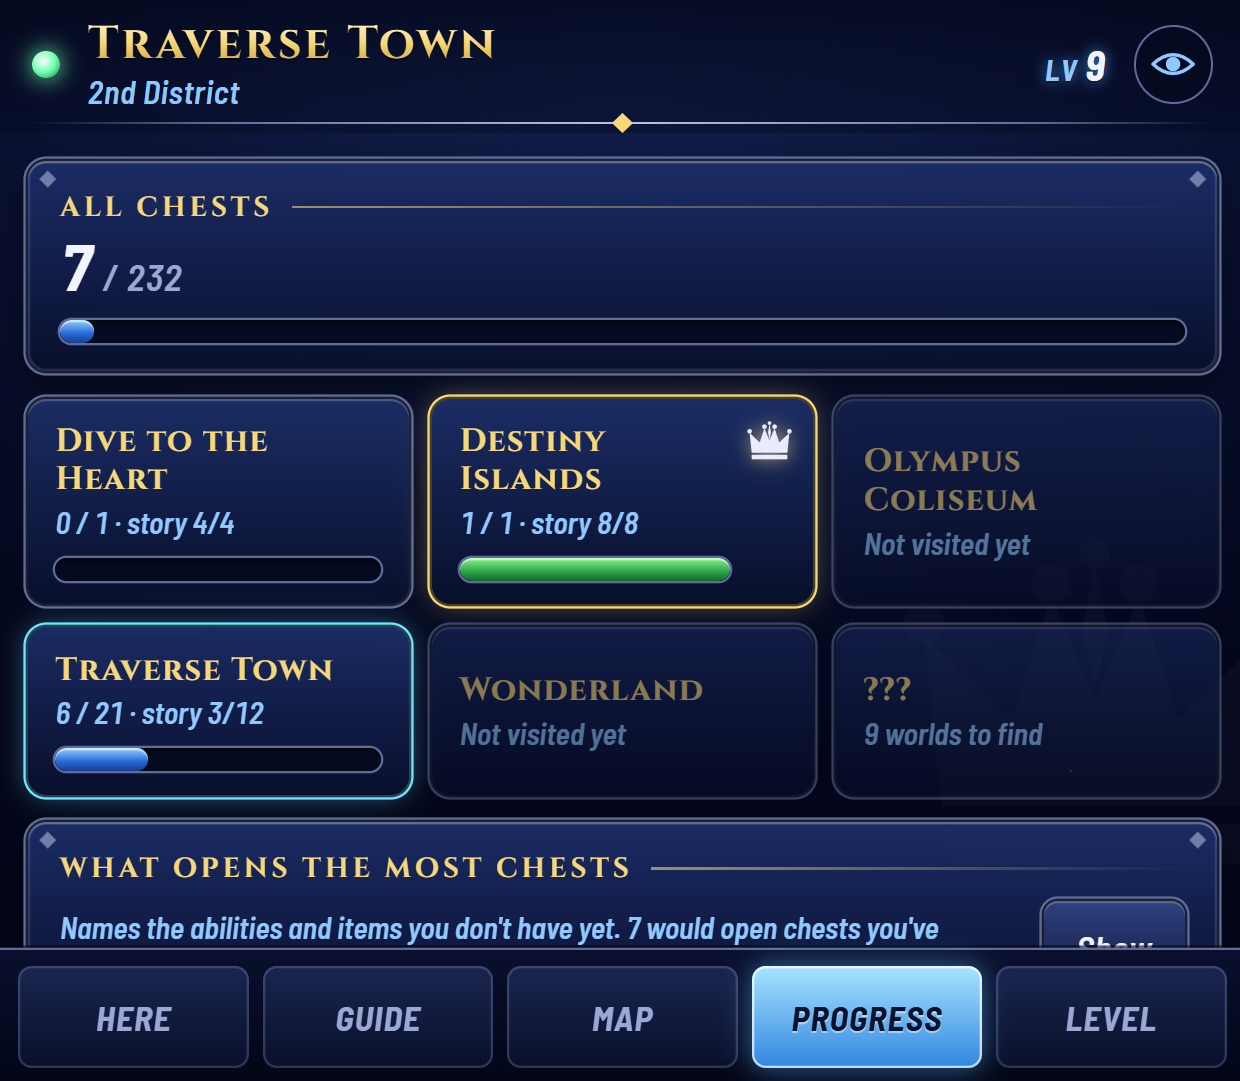
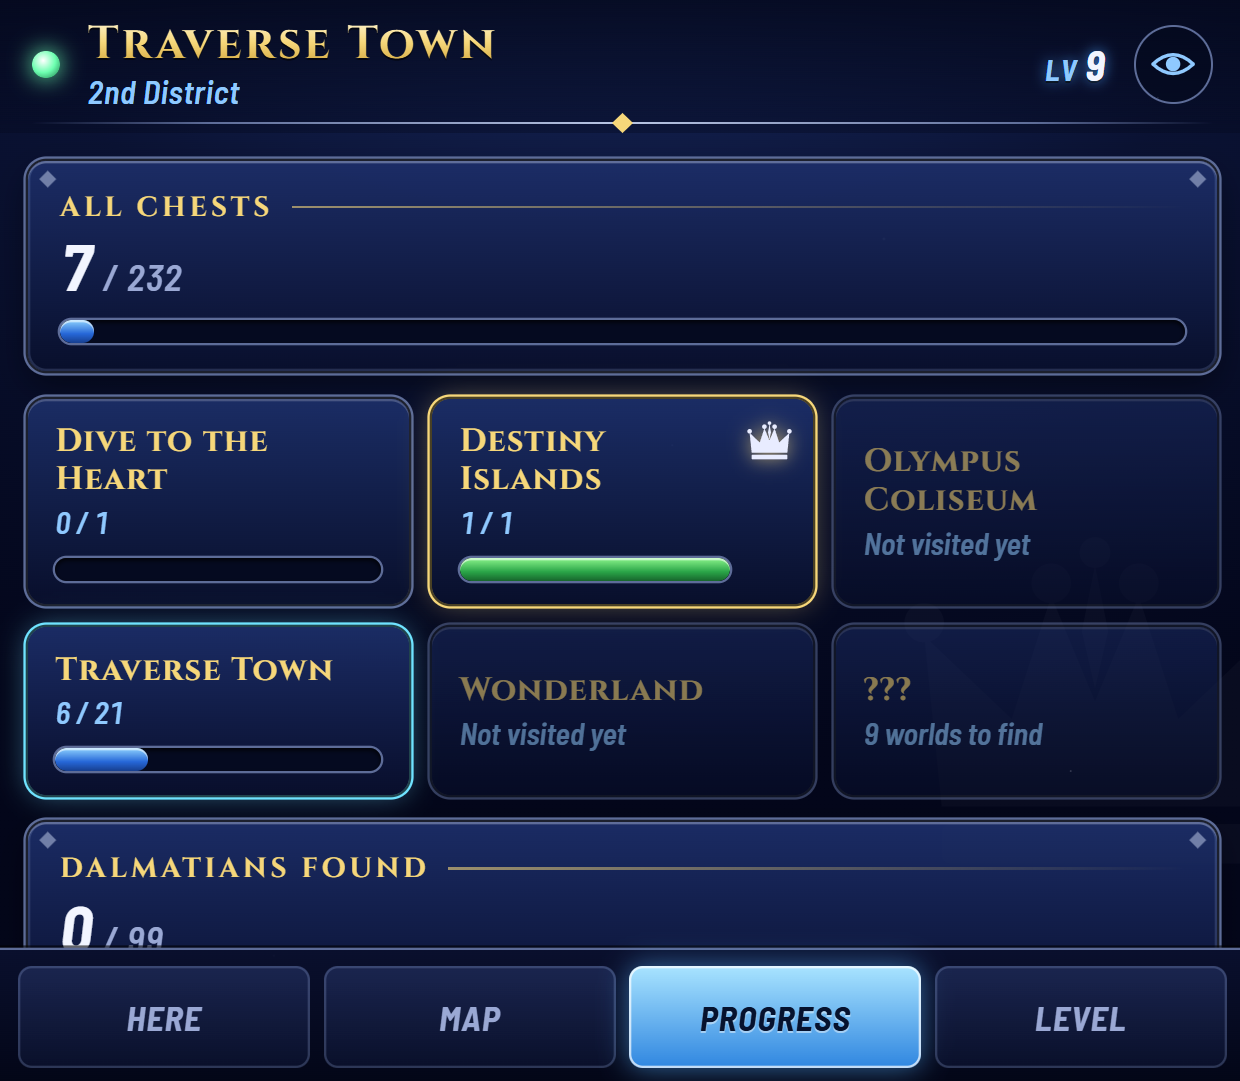
Release 0.9.0-beta.7
A simpler companion: only what the game's own data proves (guide, chest
needs and story locks hidden). Fresh README screenshots and banner without
the Guide tab; short release notes.

diff --git a/tools/make_screenshots.py b/tools/make_screenshots.py
@@ -17,7 +17,7 @@ CHROME = [
     Path(r"C:\Program Files\Google\Chrome\Application\chrome.exe"),
     Path(r"C:\Program Files (x86)\Microsoft\Edge\Application\msedge.exe"),
 ]
-TABS = ["here", "guide", "map", "progress", "level"]
+TABS = ["here", "map", "progress", "level"]  # the Guide tab is hidden for now (companion/app.js SHOW)
 
 
 def main():

diff --git a/RELEASE_NOTES.md b/RELEASE_NOTES.md
@@ -1,12 +1,11 @@
-**KH1 Companion 0.9.0-beta.6** is a new beta, with new features and setup changes. Fix-only revisions are numbered beta.6.1, beta.6.2 and so on.
+**KH1 Companion 0.9.0-beta.7** is a new beta: a simpler companion that shows only what the game's own data proves. Fix-only revisions will be numbered beta.7.1, beta.7.2 and so on.
 
-Download **KH1-Companion-v0.9.0-beta.6.apk** below. The [main page](https://github.com/keberos/kh1-companion#readme) covers setup, use and uninstalling.
+Download **KH1-Companion-v0.9.0-beta.7.apk** below. The [main page](https://github.com/keberos/kh1-companion#readme) covers setup, use and uninstalling.
 
 ### What's new
-- **Simpler setup.** There's now one GameNative step instead of two: copy the two files with **Import Files**, then turn on **Enable mod loaders** (⚙ → Edit container → General). You no longer type a setting by hand.
-- **Settings are easy to find.** **Close companion**, **Remove everything…** and **Advanced settings** are buttons under the checklist. On Cocoon, open Settings from the **×** on the companion.
-- **A cleaner uninstall.** Setup pauses while you remove the companion, **Delete files** asks first and stays deleted, and **Uninstall** works.
-- **Guide fixes.** Loading a save made after handing Kairi the raft supplies, or from late in End of the World, no longer sends you back to earlier steps. Steps not yet checked against the PC version are marked *unconfirmed*.
-- **Other fixes.** On a fresh install, the mod files now show in GameNative's file picker. Starting the game from setup closes the companion as soon as the game exits.
+- **Simpler and more reliable.** The Guide tab, what a chest still needs, and story locks on map rooms are hidden. They came from secondhand sources (PS2 notes, randomizer logic) that real play kept breaking. Here, Map, Progress and Level remain.
+- **Clearer map.** Each room's count has a chest icon, an open chest once a room is done, and save points are labelled as found so far, not every one.
+- **Two more save points:** Traverse Town's Accessory Shop and the Dive's last station.
+- **Fixes:** launching from Cocoon gives the game the controller straight away, and the bridge no longer checks for files during play. A camera-spin test showed no frame drops with the companion open or closed.
 
-**Updating from beta.5:** install over it. Your setup keeps working, so there's nothing to redo.
+**Updating from beta.6:** install over it. Nothing to redo.
